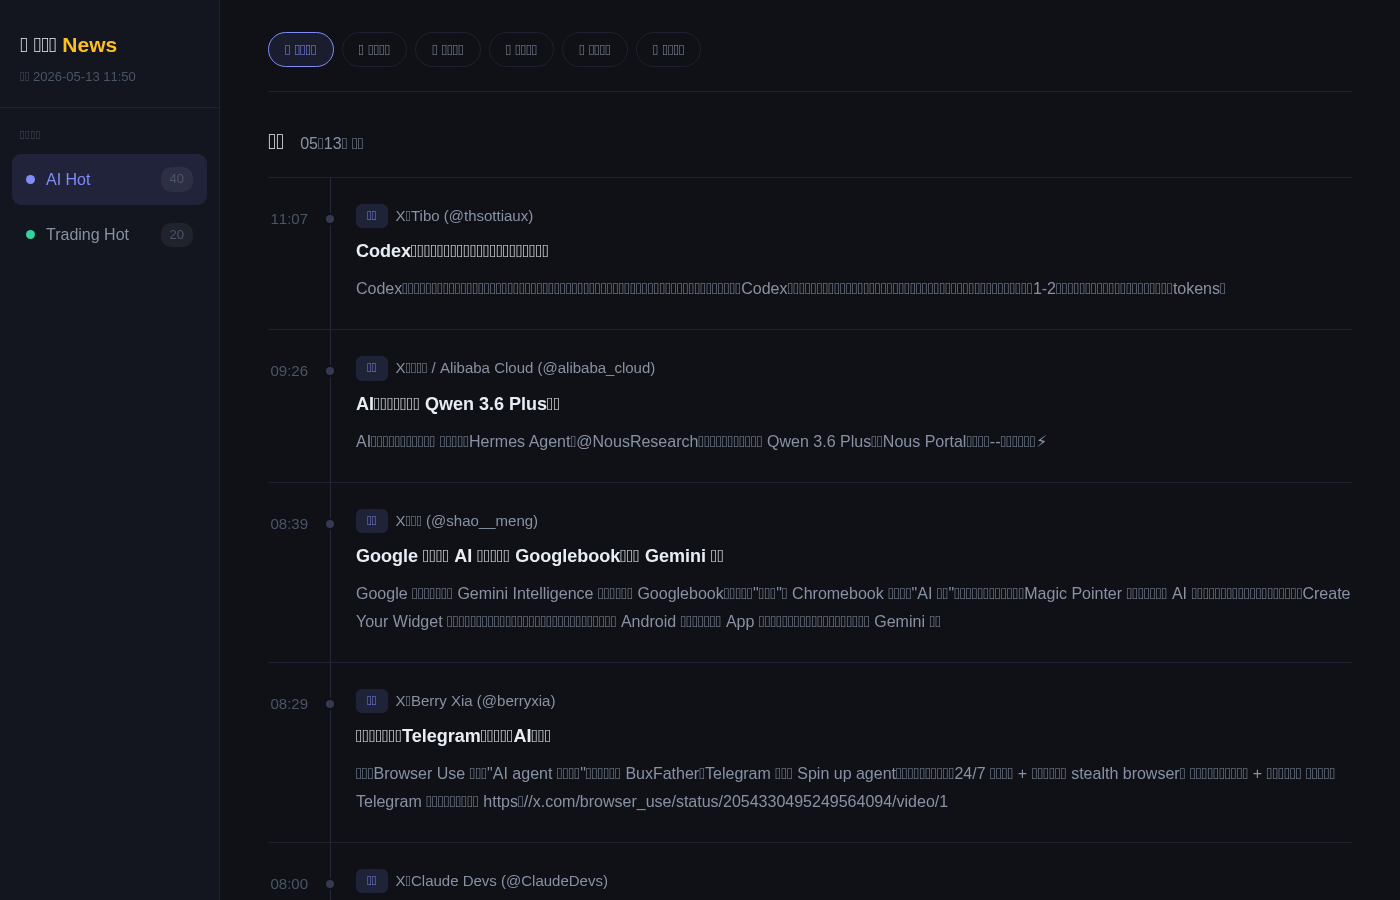
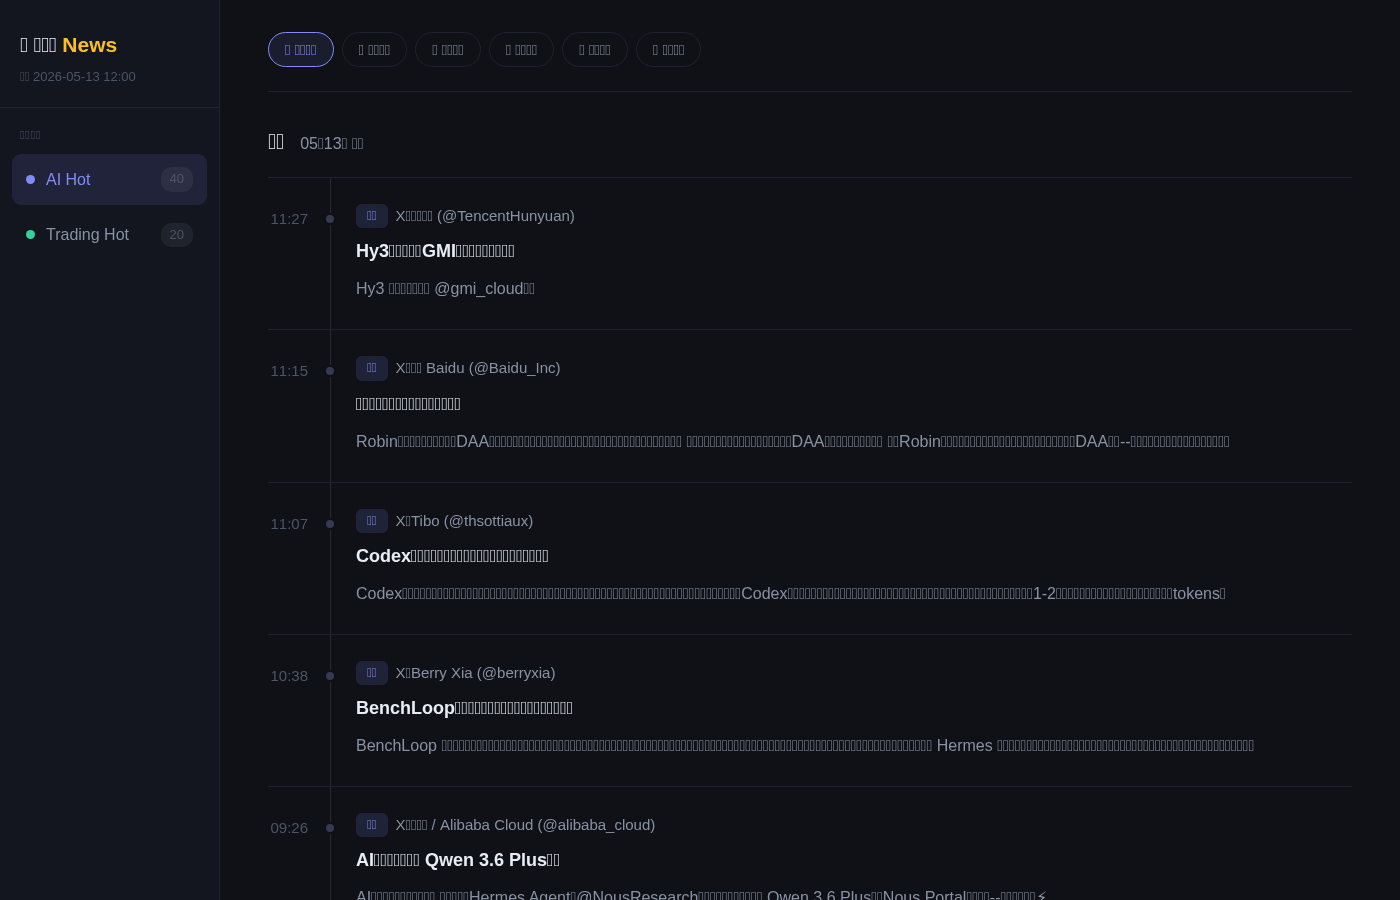
auto update 2026-05-13 12:00

diff --git a/index.html b/index.html
@@ -106,7 +106,7 @@ body{font-family:-apple-system,BlinkMacSystemFont,"Segoe UI","PingFang SC","Micr
 <body>
 <aside class="sb">
   <div class="sb-logo">💰 财神爷 <span>News</span>
-    <div class="sb-up">更新 2026-05-13 11:50</div>
+    <div class="sb-up">更新 2026-05-13 12:00</div>
   </div>
   <nav class="sb-nav">
     <div class="nav-lbl">精选频道</div>
@@ -124,12 +124,43 @@ body{font-family:-apple-system,BlinkMacSystemFont,"Segoe UI","PingFang SC","Micr
         <div class="dgroup">
       <div class="dheader">今天 <span class='dsub'>05月13日 周三</span></div>
       <div class="ilist">
+      <div class="item" data-cats="ai-models">
+        <div class="item-time">11:27</div>
+        <div class="item-body">
+          <div class="item-meta"><span class="badge badge-ai">模型</span><span class="isrc">X：腾讯混元 (@TencentHunyuan)</span></div>
+          <a class="item-title" href="https://x.com/TencentHunyuan/status/2054403079433572357" target="_blank" rel="noopener">Hy3预览版登陆GMI，开源最强模型领跑</a>
+          <div class="item-summary">Hy3 预览版现已登陆 @gmi_cloud。🙌</div>
+        </div>
+      </div>
+
+      <div class="item" data-cats="tip">
+        <div class="item-time">11:15</div>
+        <div class="item-body">
+          <div class="item-meta"><span class="badge badge-ai">技巧</span><span class="isrc">X：百度 Baidu (@Baidu_Inc)</span></div>
+          <a class="item-title" href="https://x.com/Baidu_Inc/status/2054400181903524133" target="_blank" rel="noopener">智能体时代新指标：日活跃智能体数</a>
+          <div class="item-summary">Robin提出将日活跃智能体（DAA）作为智能体时代的定义性指标，相当于移动互联网时代的日活跃用户数。
+
+虽然令牌消耗更多反映成本而非价值，但DAA让讨论回归产出本质。
+
+正如Robin所指出的，衡量平台或生态系统健康度时，应更关注DAA指标--即积极工作并交付成果的智能体数量。</div>
+        </div>
+      </div>
+
       <div class="item" data-cats="ai-products">
         <div class="item-time">11:07</div>
         <div class="item-body">
           <div class="item-meta"><span class="badge badge-ai">产品</span><span class="isrc">X：Tibo (@thsottiaux)</span></div>
           <a class="item-title" href="https://x.com/thsottiaux/status/2054398093886673260" target="_blank" rel="noopener">Codex应用内浏览器升级，提升多视口测试与标注效率</a>
           <div class="item-summary">Codex应用内浏览器功能迎来多项改进，支持在不同视口尺寸下测试应用，并能控制设备工具栏、在不同断点进行点击验证。长时测试中，Codex会在关键节点截图供用户核查。为加速测试，可隐藏应用内浏览器以禁用动画，使测试速度提升1-2倍。此外，标注功能现在发送更快且消耗更少tokens。</div>
+        </div>
+      </div>
+
+      <div class="item" data-cats="tip">
+        <div class="item-time">10:38</div>
+        <div class="item-body">
+          <div class="item-meta"><span class="badge badge-ai">技巧</span><span class="isrc">X：Berry Xia (@berryxia)</span></div>
+          <a class="item-title" href="https://x.com/berryxia/status/2054390836721553487" target="_blank" rel="noopener">BenchLoop：本地大模型一键基准测试与排行榜发布</a>
+          <div class="item-summary">BenchLoop 提供了一套对本地大模型进行基准测试的标准化流程。用户只需拉取模型并运行该工具，即可实时获取模型在质量、速度和可靠性方面的综合评分。平台支持对比不同提示框架（如原生模式与 Hermes 模式）下的性能表现。测试完成后，结果可自动发布至公开排行榜，便于横向比较不同模型的优劣。</div>
         </div>
       </div>
 
@@ -497,42 +528,6 @@ https：//x.com/browser_use/status/2054330495249564094/video/1</div>
           <div class="item-summary">前OpenAI CTO Mira创立的Thinking Machines公司发布了一种创新的&quot;交互模型&quot;。该模型能原生、持续地接收音频、视频和文本等多模态输入，并实时思考与响应，而非通过Agent串联多个独立模型。其架构分为两部分：前台交互模型以200毫秒为节点处理输入并维持用户&quot;在场感&quot;，支持随时打断；后台推理模型则处理长程规划、工具调用等复杂任务。两者协同工作，最终呈现为一个既能实时交互又能处理重度任务的统一界面。</div>
         </div>
       </div>
-
-      <div class="item" data-cats="ai-products">
-        <div class="item-time">08:39</div>
-        <div class="item-body">
-          <div class="item-meta"><span class="badge badge-ai">产品</span><span class="isrc">X：邵猛 (@shao__meng)</span></div>
-          <a class="item-title" href="https://x.com/shao__meng/status/2053998536711405978" target="_blank" rel="noopener">Cursor集成Microsoft Teams提升办公效率</a>
-          <div class="item-summary">Cursor 在 Microsoft Teams 可用了
-
-最新集成方式有：Slack、Linear 和 Microsoft Teams
-
-如果你们公司在用微软产品体系，Microsoft Teams 还是必选项，这个集成比较实用，在这安装：
-https：//cursor.com/dashboard/integrations#integrations</div>
-        </div>
-      </div>
-
-      <div class="item" data-cats="paper">
-        <div class="item-time">08:27</div>
-        <div class="item-body">
-          <div class="item-meta"><span class="badge badge-ai">论文</span><span class="isrc">X：Epoch AI (@EpochAIResearch)</span></div>
-          <a class="item-title" href="https://x.com/EpochAIResearch/status/2053995435870892048" target="_blank" rel="noopener">FrontierMath评测发现致命错误，将更新修正后分数</a>
-          <div class="item-summary">我们正在对FrontierMath的Tiers 1-4进行AI辅助审查。
-这已标记出约三分之一题目存在致命错误，
-且我们相信大多数标记是有效的。
-在完成全面人工审核后，
-我们将在修正的数据集上发布更新后的分数。</div>
-        </div>
-      </div>
-
-      <div class="item" data-cats="industry">
-        <div class="item-time">08:23</div>
-        <div class="item-body">
-          <div class="item-meta"><span class="badge badge-ai">行业</span><span class="isrc">Hacker News 热门（buzzing.cc 中文翻译）</span></div>
-          <a class="item-title" href="https://www.nytimes.com/2026/05/11/us/politics/google-hackers-attack-ai.html" target="_blank" rel="noopener">谷歌表示，犯罪黑客利用人工智能发现了一个重大的软件漏洞</a>
-          <div class="item-summary">谷歌披露，犯罪黑客利用人工智能技术发现并利用了一个重大的软件漏洞。该漏洞存在于广泛使用的开源软件中，可能导致大规模数据泄露或系统入侵。谷歌威胁分析小组追踪到此次攻击，并确认黑客借助AI工具显著提升了漏洞挖掘的效率与精准度。目前漏洞细节尚未公开，但相关软件维护方已发布安全更新。这一事件凸显了AI技术被恶意用于网络攻击的现实风险，对全球网络安全防御体系提出了新的挑战。</div>
-        </div>
-      </div>
       </div>
     </div>
   </div>
@@ -541,7 +536,7 @@ https：//cursor.com/dashboard/integrations#integrations</div>
         <div class="dgroup">
       <div class="dheader">今天 <span class='dsub'>05月13日 周三</span></div>
       <div class="ilist">
-      <div class="item" data-cats="crypto top">
+      <div class="item" data-cats="top crypto">
         <div class="item-time">04:56</div>
         <div class="item-body">
           <div class="item-meta"><span class="badge badge-trading">加密</span><span class="score-badge">72分</span><span class="isrc">The Block</span><span class="ticker">$C</span><span class="ticker">$COIN</span></div>
@@ -561,7 +556,7 @@ https：//cursor.com/dashboard/integrations#integrations</div>
         </div>
       </div>
 
-      <div class="item" data-cats="ai_tech crypto top">
+      <div class="item" data-cats="top crypto ai_tech">
         <div class="item-time">04:46</div>
         <div class="item-body">
           <div class="item-meta"><span class="badge badge-trading">加密</span><span class="score-badge">68分</span><span class="isrc">Decrypt</span><span class="ticker">$F</span></div>
@@ -581,7 +576,7 @@ https：//cursor.com/dashboard/integrations#integrations</div>
         </div>
       </div>
 
-      <div class="item" data-cats="ai_tech top">
+      <div class="item" data-cats="top ai_tech">
         <div class="item-time">04:36</div>
         <div class="item-body">
           <div class="item-meta"><span class="badge badge-trading">市场异动</span><span class="score-badge">67分</span><span class="isrc">MarketWatch Top Stories</span><span class="ticker">$V</span></div>
@@ -601,7 +596,7 @@ https：//cursor.com/dashboard/integrations#integrations</div>
         </div>
       </div>
 
-      <div class="item" data-cats="geo top">
+      <div class="item" data-cats="top geo">
         <div class="item-time">04:14</div>
         <div class="item-body">
           <div class="item-meta"><span class="badge badge-trading">市场异动</span><span class="score-badge">67分</span><span class="isrc">华尔街见闻</span></div>
@@ -611,7 +606,7 @@ https：//cursor.com/dashboard/integrations#integrations</div>
         </div>
       </div>
 
-      <div class="item" data-cats="ai_tech crypto top">
+      <div class="item" data-cats="top crypto ai_tech">
         <div class="item-time">03:45</div>
         <div class="item-body">
           <div class="item-meta"><span class="badge badge-trading">加密</span><span class="score-badge">69分</span><span class="isrc">Decrypt</span><span class="ticker">$BTC</span><span class="ticker">$MARA</span></div>
@@ -631,7 +626,7 @@ https：//cursor.com/dashboard/integrations#integrations</div>
         </div>
       </div>
 
-      <div class="item" data-cats="geo top">
+      <div class="item" data-cats="top geo">
         <div class="item-time">02:43</div>
         <div class="item-body">
           <div class="item-meta"><span class="badge badge-trading">市场异动</span><span class="score-badge">72分</span><span class="isrc">CNBC Top News</span><span class="ticker">$C</span></div>
@@ -651,7 +646,7 @@ https：//cursor.com/dashboard/integrations#integrations</div>
         </div>
       </div>
 
-      <div class="item" data-cats="geo top">
+      <div class="item" data-cats="top geo">
         <div class="item-time">02:11</div>
         <div class="item-body">
           <div class="item-meta"><span class="badge badge-trading">市场异动</span><span class="score-badge">72分</span><span class="isrc">CNBC Top News</span><span class="ticker">$C</span></div>
@@ -661,7 +656,7 @@ https：//cursor.com/dashboard/integrations#integrations</div>
         </div>
       </div>
 
-      <div class="item" data-cats="macro geo top">
+      <div class="item" data-cats="macro top geo">
         <div class="item-time">02:10</div>
         <div class="item-body">
           <div class="item-meta"><span class="badge badge-trading">市场异动</span><span class="score-badge">72分</span><span class="isrc">CNBC Top News</span><span class="ticker">$C</span></div>
@@ -725,7 +720,7 @@ https：//cursor.com/dashboard/integrations#integrations</div>
         </div>
       </div>
 
-      <div class="item" data-cats="crypto top">
+      <div class="item" data-cats="top crypto">
         <div class="item-time">22:37</div>
         <div class="item-body">
           <div class="item-meta"><span class="badge badge-trading">加密</span><span class="score-badge">70分</span><span class="isrc">Decrypt</span><span class="ticker">$C</span></div>
@@ -735,7 +730,7 @@ https：//cursor.com/dashboard/integrations#integrations</div>
         </div>
       </div>
 
-      <div class="item" data-cats="crypto top">
+      <div class="item" data-cats="top crypto">
         <div class="item-time">19:55</div>
         <div class="item-body">
           <div class="item-meta"><span class="badge badge-trading">加密</span><span class="score-badge">75分</span><span class="isrc">Decrypt</span><span class="ticker">$C</span></div>
